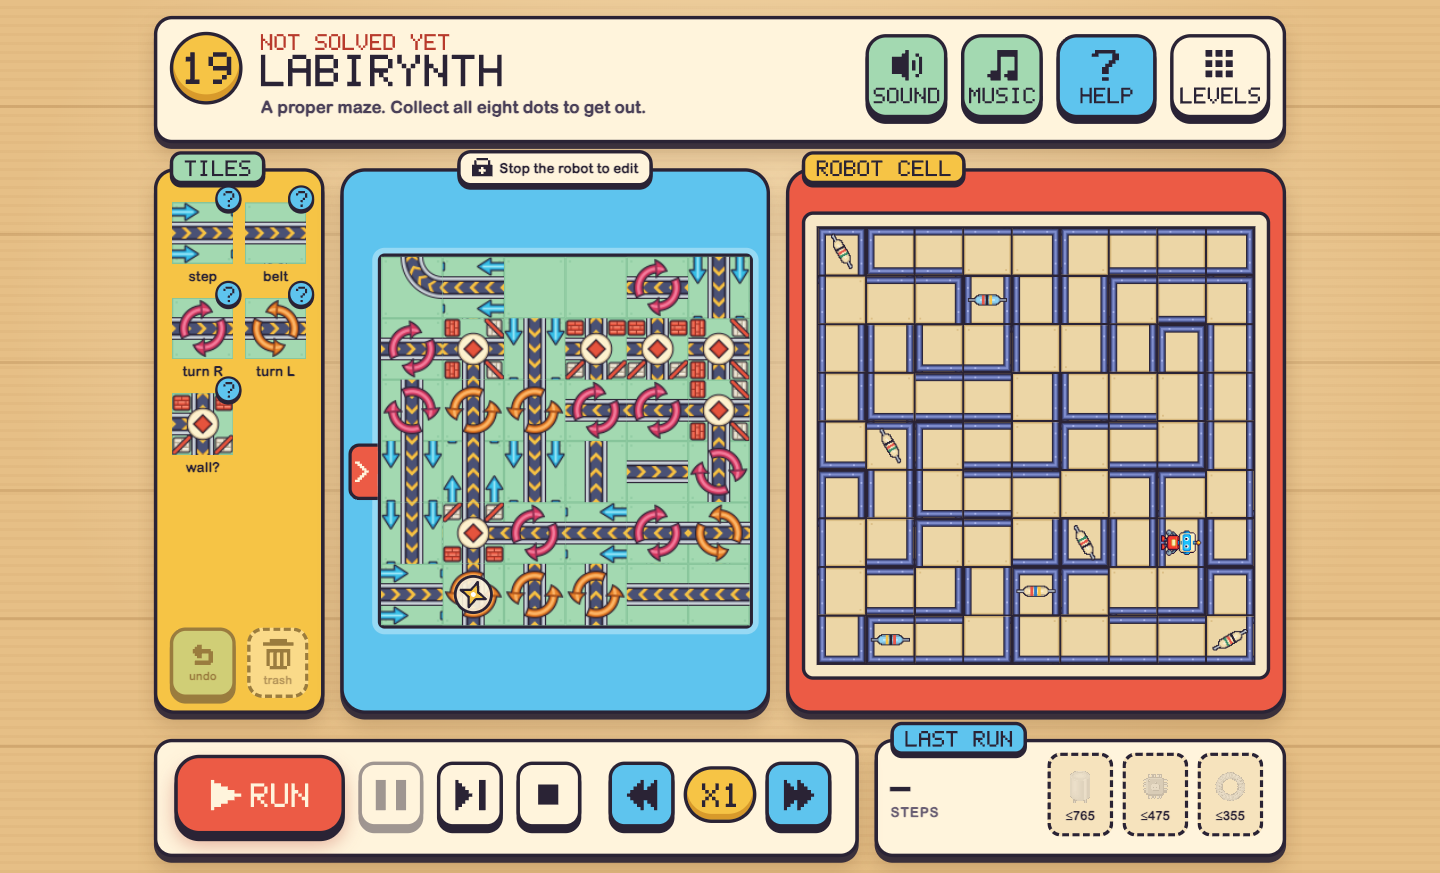
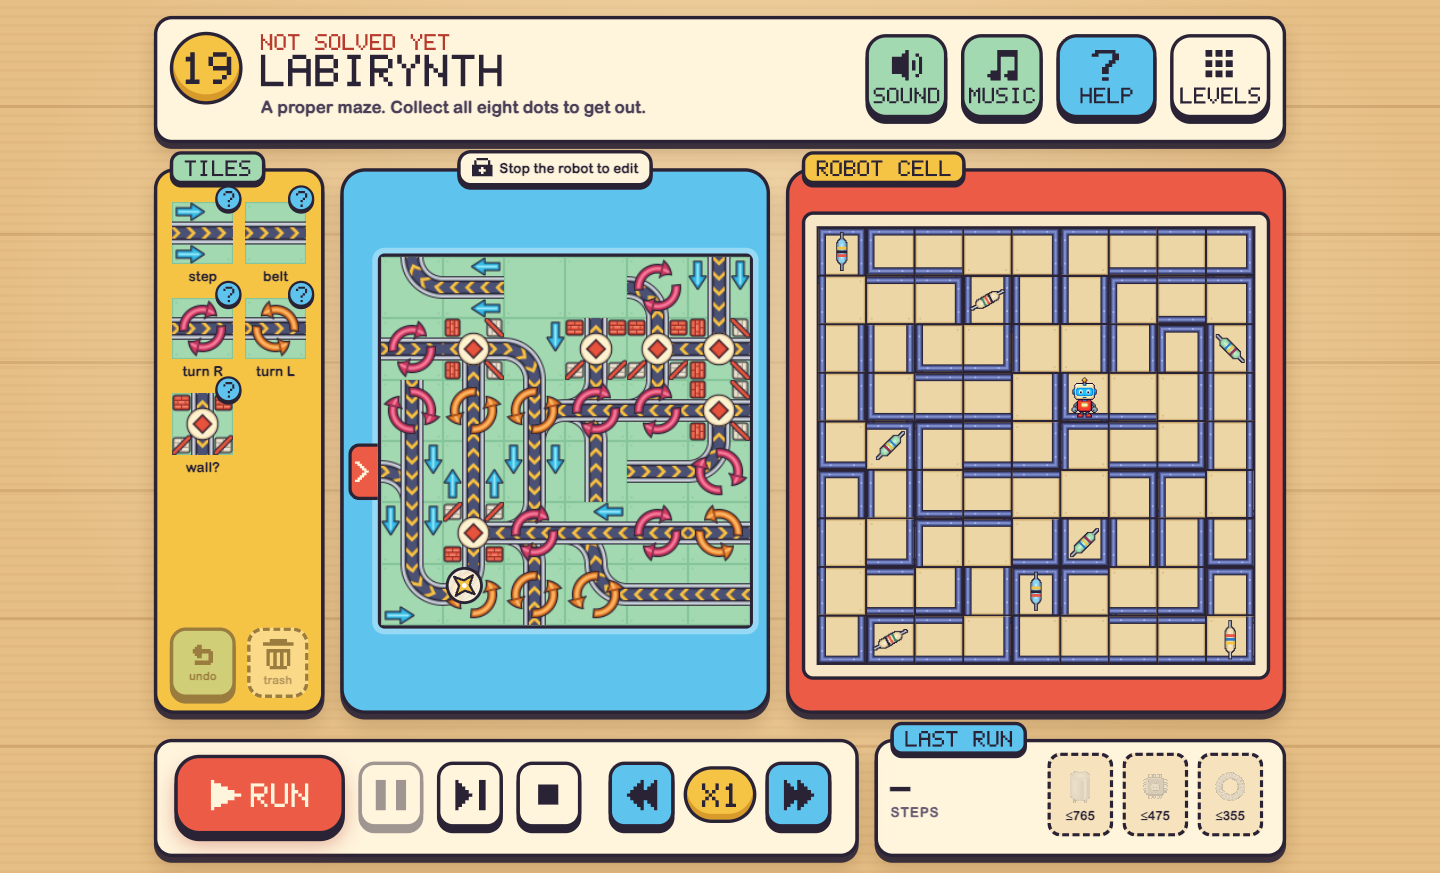
Secret ?unlock debug mode opens every level for one page load; promo screenshot shows belt joins (tg-2oq)

diff --git a/index.html b/index.html
@@ -11,77 +11,77 @@
 // Build version, appended as ?v= to every script, stylesheet and asset URL so
 // a returning browser never mixes cached old files with new ones. Set (here and
 // on every tag below) by `node tools/bump-version.mjs`; see README.md.
-window.TURING_VERSION = "20261108-222637-4af1b81";
+window.TURING_VERSION = "20261109-203100-aadb8dd";
 window.versionedUrl = function (url) {
   if (!url || /^(data|blob):/.test(url) || /[?&]v=/.test(url)) return url;
   return url + (url.indexOf("?") < 0 ? "?" : "&") + "v=" + encodeURIComponent(window.TURING_VERSION);
 };
 </script>
 <!-- libs -->
-<link rel="stylesheet" href="css/style.css?v=20261108-222637-4af1b81">
-<link rel="stylesheet" href="css/toybox.css?v=20261108-222637-4af1b81">
-<script src='lib/quintus.js?v=20261108-222637-4af1b81'></script>
-<script src='lib/quintus_sprites.js?v=20261108-222637-4af1b81'></script>
-<script src='lib/quintus_scenes.js?v=20261108-222637-4af1b81'></script>
-<script src='lib/quintus_anim.js?v=20261108-222637-4af1b81'></script>
-<script src='lib/quintus_2d.js?v=20261108-222637-4af1b81'></script>
-<script src='lib/quintus_touch.js?v=20261108-222637-4af1b81'></script>
-<script src='lib/quintus_ui.js?v=20261108-222637-4af1b81'></script>
-<script src='lib/quintus_input.js?v=20261108-222637-4af1b81'></script>
+<link rel="stylesheet" href="css/style.css?v=20261109-203100-aadb8dd">
+<link rel="stylesheet" href="css/toybox.css?v=20261109-203100-aadb8dd">
+<script src='lib/quintus.js?v=20261109-203100-aadb8dd'></script>
+<script src='lib/quintus_sprites.js?v=20261109-203100-aadb8dd'></script>
+<script src='lib/quintus_scenes.js?v=20261109-203100-aadb8dd'></script>
+<script src='lib/quintus_anim.js?v=20261109-203100-aadb8dd'></script>
+<script src='lib/quintus_2d.js?v=20261109-203100-aadb8dd'></script>
+<script src='lib/quintus_touch.js?v=20261109-203100-aadb8dd'></script>
+<script src='lib/quintus_ui.js?v=20261109-203100-aadb8dd'></script>
+<script src='lib/quintus_input.js?v=20261109-203100-aadb8dd'></script>
 
-<script type="text/javascript" src="jquery-1.7.1.min.js?v=20261108-222637-4af1b81"></script>
+<script type="text/javascript" src="jquery-1.7.1.min.js?v=20261109-203100-aadb8dd"></script>
 
 
-<script src="program.js?v=20261108-222637-4af1b81"></script>
-<script src="oaevil.js?v=20261108-222637-4af1b81"></script>
-<script src="js/audio.js?v=20261108-222637-4af1b81"></script>
-<script src="js/music.js?v=20261108-222637-4af1b81"></script>
-<script src="js/ui/kit.js?v=20261108-222637-4af1b81"></script>
-<script src="js/scenes/registry.js?v=20261108-222637-4af1b81"></script>
-<script src="queue.js?v=20261108-222637-4af1b81"></script>
-<script src="Dequeue.js?v=20261108-222637-4af1b81"></script>
-<script src="Storage.js?v=20261108-222637-4af1b81"></script>
+<script src="program.js?v=20261109-203100-aadb8dd"></script>
+<script src="oaevil.js?v=20261109-203100-aadb8dd"></script>
+<script src="js/audio.js?v=20261109-203100-aadb8dd"></script>
+<script src="js/music.js?v=20261109-203100-aadb8dd"></script>
+<script src="js/ui/kit.js?v=20261109-203100-aadb8dd"></script>
+<script src="js/scenes/registry.js?v=20261109-203100-aadb8dd"></script>
+<script src="queue.js?v=20261109-203100-aadb8dd"></script>
+<script src="Dequeue.js?v=20261109-203100-aadb8dd"></script>
+<script src="Storage.js?v=20261109-203100-aadb8dd"></script>
 
-<script src="EndLevelRobots.js?v=20261108-222637-4af1b81"></script>
-<script src="config.js?v=20261108-222637-4af1b81"></script>
-<script src="TuringTable.js?v=20261108-222637-4af1b81"></script>
-<script src="RobotTable.js?v=20261108-222637-4af1b81"></script>
-<script src="Operators.js?v=20261108-222637-4af1b81"></script>
-<script src="selector.js?v=20261108-222637-4af1b81"></script>
-<script src="editorselector.js?v=20261108-222637-4af1b81"></script>
-<script src="obstacles.js?v=20261108-222637-4af1b81"></script>
-<script src="animator.js?v=20261108-222637-4af1b81"></script>
-<script src="controls.js?v=20261108-222637-4af1b81"></script>
-<script src="parser.js?v=20261108-222637-4af1b81"></script>
-<script src="levels.js?v=20261108-222637-4af1b81"></script>
-<script src="levelsdata.js?v=20261108-222637-4af1b81"></script>
-<script src="levelsdata3.js?v=20261108-222637-4af1b81"></script>
-<script src="levelsdata2.js?v=20261108-222637-4af1b81"></script>
-<script src="levelsdata4.js?v=20261108-222637-4af1b81"></script>
-<script src="utilitySprites.js?v=20261108-222637-4af1b81"></script>
+<script src="EndLevelRobots.js?v=20261109-203100-aadb8dd"></script>
+<script src="config.js?v=20261109-203100-aadb8dd"></script>
+<script src="TuringTable.js?v=20261109-203100-aadb8dd"></script>
+<script src="RobotTable.js?v=20261109-203100-aadb8dd"></script>
+<script src="Operators.js?v=20261109-203100-aadb8dd"></script>
+<script src="selector.js?v=20261109-203100-aadb8dd"></script>
+<script src="editorselector.js?v=20261109-203100-aadb8dd"></script>
+<script src="obstacles.js?v=20261109-203100-aadb8dd"></script>
+<script src="animator.js?v=20261109-203100-aadb8dd"></script>
+<script src="controls.js?v=20261109-203100-aadb8dd"></script>
+<script src="parser.js?v=20261109-203100-aadb8dd"></script>
+<script src="levels.js?v=20261109-203100-aadb8dd"></script>
+<script src="levelsdata.js?v=20261109-203100-aadb8dd"></script>
+<script src="levelsdata3.js?v=20261109-203100-aadb8dd"></script>
+<script src="levelsdata2.js?v=20261109-203100-aadb8dd"></script>
+<script src="levelsdata4.js?v=20261109-203100-aadb8dd"></script>
+<script src="utilitySprites.js?v=20261109-203100-aadb8dd"></script>
 
 <!-- screens: one file per Quintus scene (js/scenes/), UI kit in js/ui/ -->
-<script src="js/ui/tiles.js?v=20261108-222637-4af1b81"></script>
-<script src="js/ui/tile-input.js?v=20261108-222637-4af1b81"></script>
-<script src="js/ui/tile-explainers.js?v=20261108-222637-4af1b81"></script>
-<script src="js/scenes/level.js?v=20261108-222637-4af1b81"></script>
-<script src="js/scenes/help.js?v=20261108-222637-4af1b81"></script>
-<script src="js/scenes/level-selector.js?v=20261108-222637-4af1b81"></script>
-<script src="js/scenes/end-level.js?v=20261108-222637-4af1b81"></script>
-<script src="js/scenes/intro.js?v=20261108-222637-4af1b81"></script>
-<script src="js/scenes/about.js?v=20261108-222637-4af1b81"></script>
+<script src="js/ui/tiles.js?v=20261109-203100-aadb8dd"></script>
+<script src="js/ui/tile-input.js?v=20261109-203100-aadb8dd"></script>
+<script src="js/ui/tile-explainers.js?v=20261109-203100-aadb8dd"></script>
+<script src="js/scenes/level.js?v=20261109-203100-aadb8dd"></script>
+<script src="js/scenes/help.js?v=20261109-203100-aadb8dd"></script>
+<script src="js/scenes/level-selector.js?v=20261109-203100-aadb8dd"></script>
+<script src="js/scenes/end-level.js?v=20261109-203100-aadb8dd"></script>
+<script src="js/scenes/intro.js?v=20261109-203100-aadb8dd"></script>
+<script src="js/scenes/about.js?v=20261109-203100-aadb8dd"></script>
 
 
-<script src="script.js?v=20261108-222637-4af1b81"></script>
+<script src="script.js?v=20261109-203100-aadb8dd"></script>
 
 
 <!-- icons: built by tools/art/favicon.mjs from the player robot master -->
-<link rel="icon" type="image/png" sizes="16x16" href="images/icons/favicon-16.png?v=20261108-222637-4af1b81">
-<link rel="icon" type="image/png" sizes="32x32" href="images/icons/favicon-32.png?v=20261108-222637-4af1b81">
-<link rel="icon" type="image/png" sizes="48x48" href="images/icons/favicon-48.png?v=20261108-222637-4af1b81">
-<link rel="icon" type="image/png" sizes="192x192" href="images/icons/icon-192.png?v=20261108-222637-4af1b81">
-<link rel="icon" type="image/png" sizes="512x512" href="images/icons/icon-512.png?v=20261108-222637-4af1b81">
-<link rel="apple-touch-icon" sizes="180x180" href="images/icons/apple-touch-icon.png?v=20261108-222637-4af1b81">
+<link rel="icon" type="image/png" sizes="16x16" href="images/icons/favicon-16.png?v=20261109-203100-aadb8dd">
+<link rel="icon" type="image/png" sizes="32x32" href="images/icons/favicon-32.png?v=20261109-203100-aadb8dd">
+<link rel="icon" type="image/png" sizes="48x48" href="images/icons/favicon-48.png?v=20261109-203100-aadb8dd">
+<link rel="icon" type="image/png" sizes="192x192" href="images/icons/icon-192.png?v=20261109-203100-aadb8dd">
+<link rel="icon" type="image/png" sizes="512x512" href="images/icons/icon-512.png?v=20261109-203100-aadb8dd">
+<link rel="apple-touch-icon" sizes="180x180" href="images/icons/apple-touch-icon.png?v=20261109-203100-aadb8dd">
 
 
 

diff --git a/Storage.js b/Storage.js
@@ -151,6 +151,11 @@ t.GameSaver = new function(){
 	this.reset = function(){
 		t.Storage.ls.clear();
 	}
+	// Debug unlock (tg-2oq): ?unlock in the URL opens every level for this page
+	// load only. Nothing is written to storage; drop the parameter to get the
+	// real lock state back. Solved levels, parts and scores are unchanged.
+	this.debugUnlock = /[?&]unlock(?:[=&#]|$)/.test(window.location.search);
+	if(this.debugUnlock) console.info("turing: debug unlock is on (?unlock): every level is open; saved progress is untouched");
 }()
 
 /*

diff --git a/js/scenes/level-selector.js b/js/scenes/level-selector.js
@@ -57,7 +57,7 @@
 		});
 		names.forEach(function(n) {
 			var o = N[n];
-			o.open = !o.solved && o.req.every(function(r) { return N[r].solved; });
+			o.open = !o.solved && (t.GameSaver.debugUnlock || o.req.every(function(r) { return N[r].solved; }));
 			o.state = o.solved ? "solved" : o.open ? "open" : "locked";
 			o.req.forEach(function(r) { N[r].users.push(n); });
 		});

diff --git a/js/scenes/end-level.js b/js/scenes/end-level.js
@@ -28,7 +28,7 @@
 		},
 		available: function(level) {
 			var req = level.required;
-			if(!req) return true;
+			if(!req || t.GameSaver.debugUnlock) return true;
 			for(var i in req) {
 				var s = t.GameSaver.loadLevelStatus(req[i]);
 				if(s === false || s === undefined || s === null) return false;
